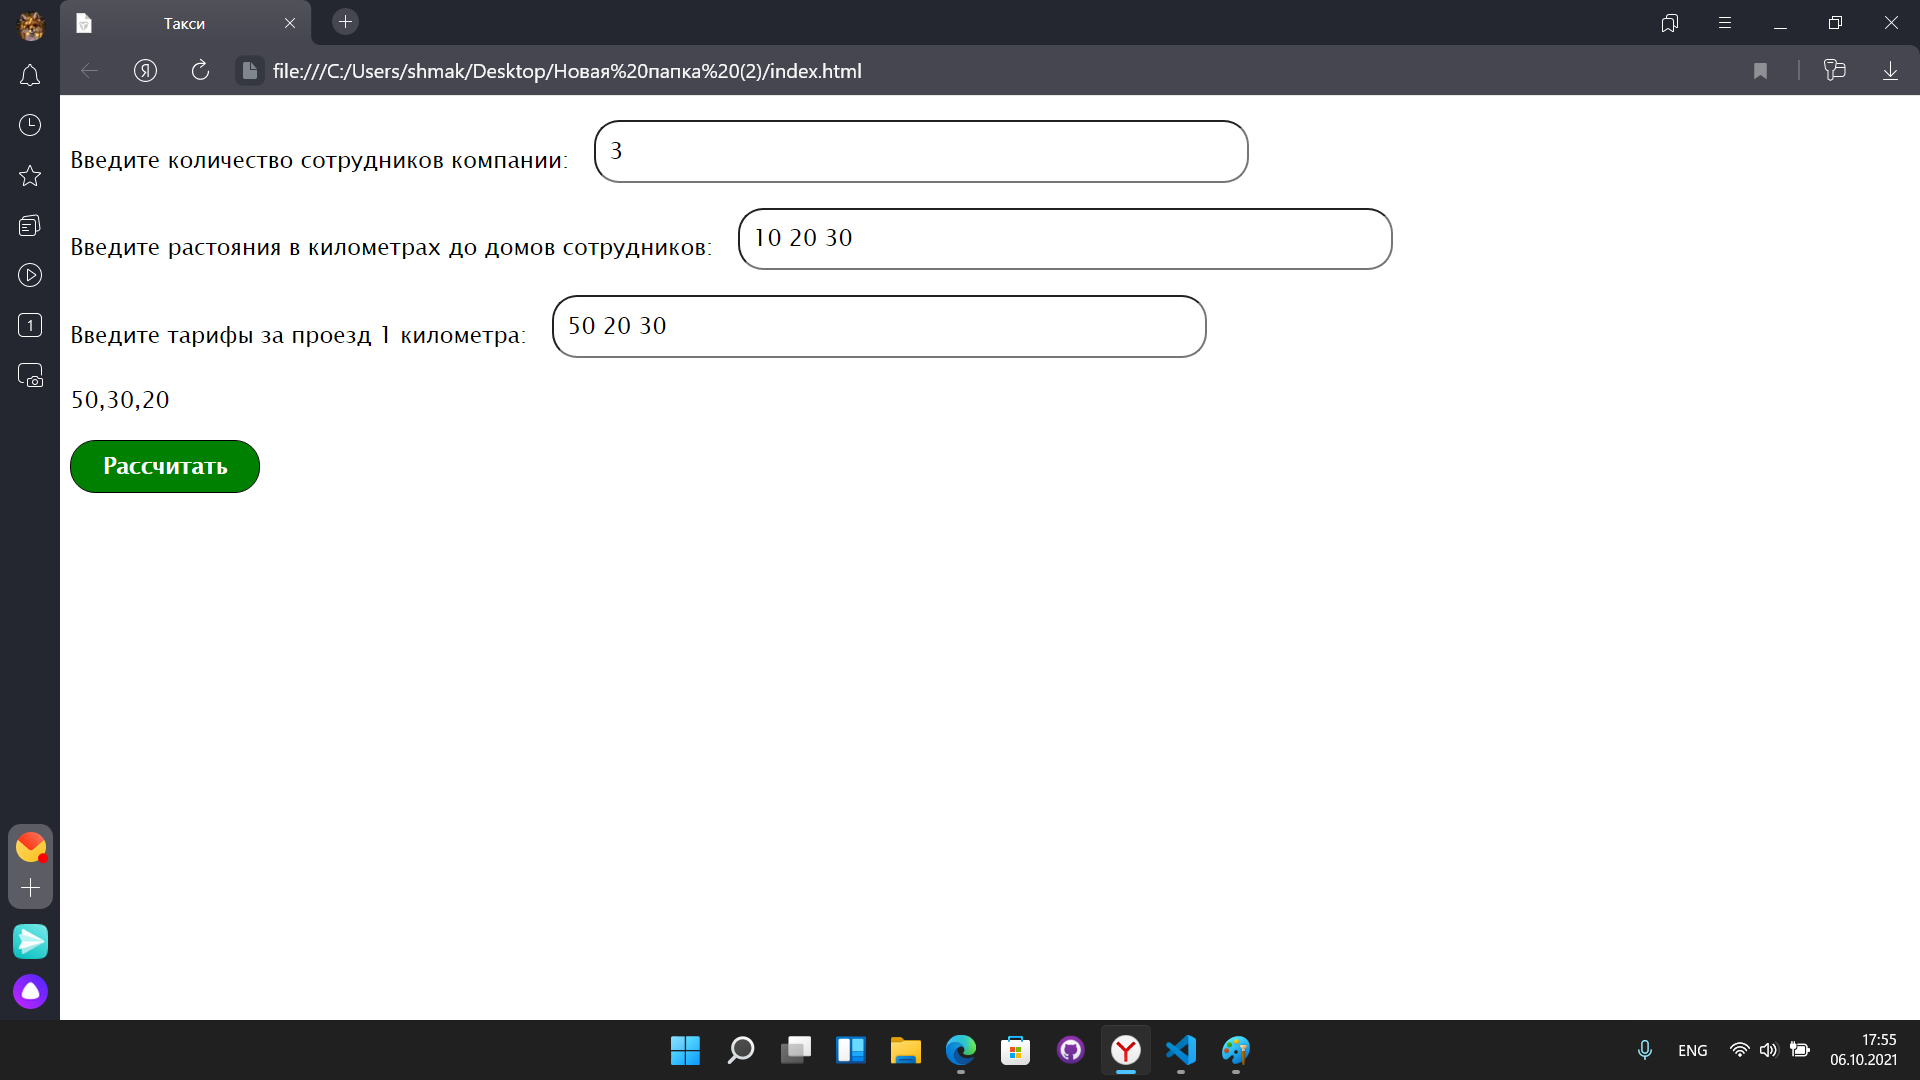
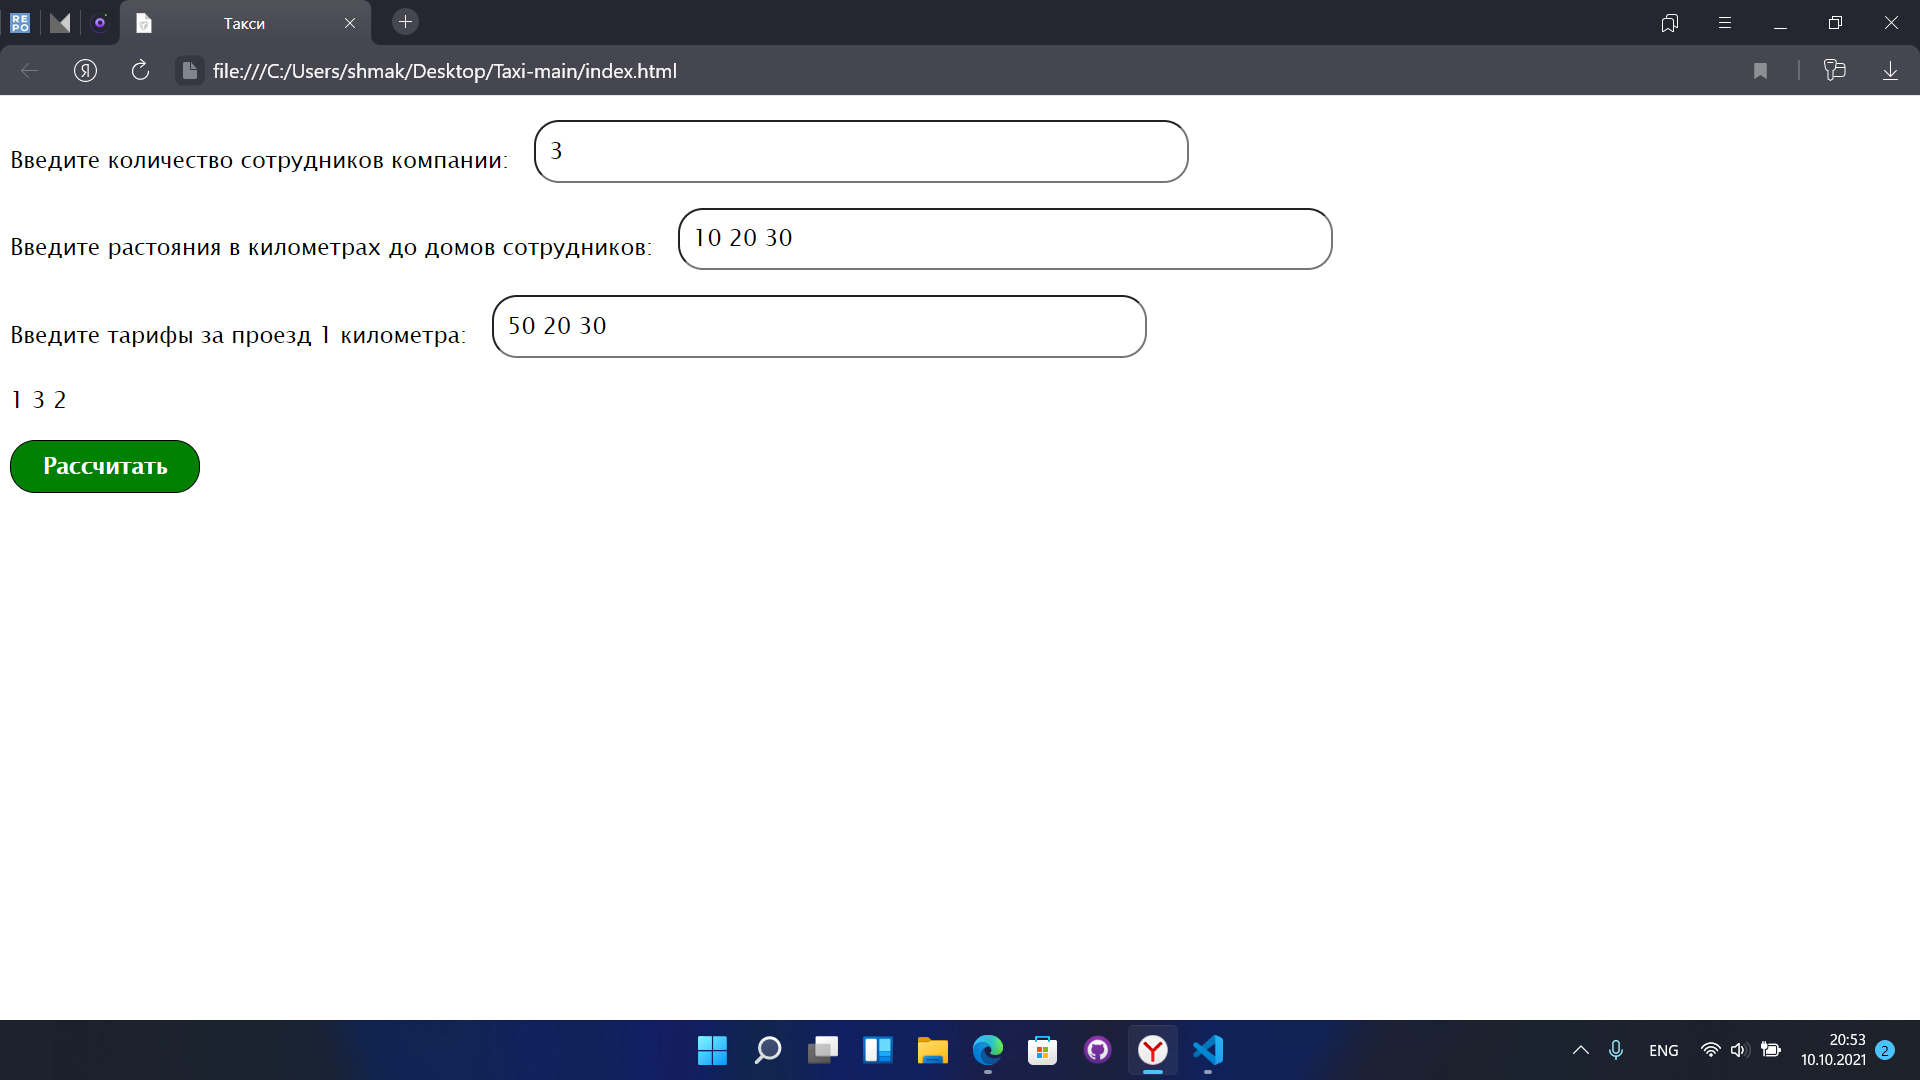
Исправление
Исправлен вывод (теперь вводятся номера такси)

diff --git a/index.js b/index.js
@@ -52,10 +52,28 @@ function run() {
 
         }
 
-        document.getElementById('rez').innerHTML = newList;
+        listK = [];
+        let newListNumber = [];
+
+        for (let i = 0; i < listT.length; ++i) {
+
+            for (let k = 0; k < newList.length; ++k) {
+
+                if (listT[i] == newList[k] && listK.indexOf(k) == -1) {
+                   
+                    listK.push(k);
+                    newListNumber.push(k + 1)
+
+                    break;
+
+                }
+
+            }
+
+        }
+        let a = newListNumber.join(' ')
+        document.getElementById('rez').innerHTML = a;
 
     }
-
-    console.log(listS.sum())
 
 }
